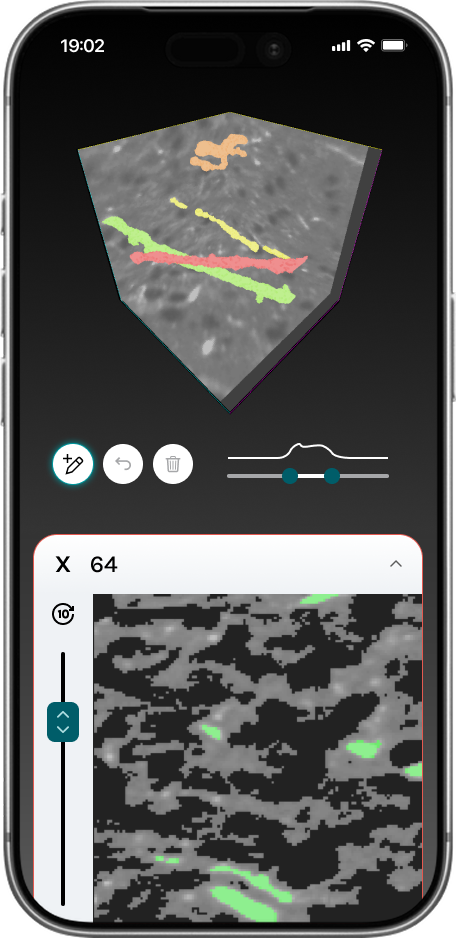
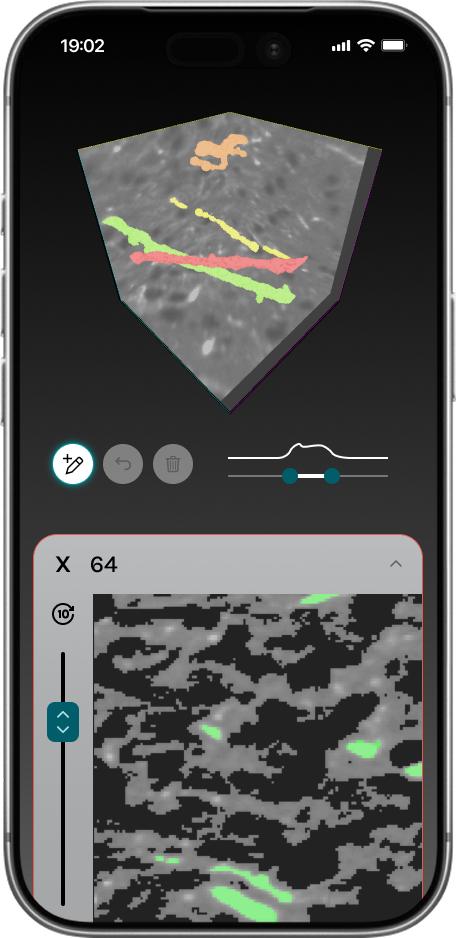
Major fixes, content add

diff --git a/case_study_1.html b/case_study_1.html
@@ -40,7 +40,7 @@
         <section class="case-study-hero">
             <div class="case-study-hero-content">
                 <div class="case-study-hero-image">
-                    <img src="https://github.com/sean-miller26/sean-miller26.github.io/blob/main/Zooniverse%20Homepage%20Mock-up1.jpg?raw=true" alt="Zooniverse Homepage">
+                    <img src="https://github.com/sean-miller26/sean-miller26.github.io/blob/main/Design%20System%20Laptop%20Mock.png?raw=true" alt="Zooniverse Design System">
                 </div>
                 <div class="case-study-hero-text">
                     <div class="card-sponsors">
@@ -81,6 +81,9 @@
             </div>
         </section>
 
+        <div class="featured-image" style="max-width: 1000px; margin: 0 auto;">
+                <img src="https://github.com/sean-miller26/sean-miller26.github.io/blob/main/Design%20System%20Visual%20Break.png?raw=true" class="featured-image">
+
         <!-- The Problem -->
         <section class="section-colored">
             <h2>The Problem: Design Debt and Legacy Architecture</h2>
@@ -93,8 +96,17 @@
                     <li>New features required solving the same design problems again</li>
                 </ul>
                 <p><em>The previous front-end architecture made reuse difficult. Consistency was hard to maintain.</em></p>
-                <div class="featured-image" style="max-width: 1000px; margin: 0 auto;">
-                <img src="https://github.com/sean-miller26/sean-miller26.github.io/blob/main/Old%20Page%20Designs.png?raw=true" alt="Old Page Designs" class="featured-image" style="border-radius: 8px;">
+                <figure style="margin: 0; text-align: center;">
+                    <img src="https://github.com/sean-miller26/sean-miller26.github.io/blob/main/Old%20Page%20Designs.png?raw=true" 
+                    alt="Old Page Designs" 
+                    class="featured-image" 
+                    style="border-radius: 8px;">
+                <figcaption style="margin-top: 0.5rem; color: var(--color-text-light); font-size: 0.9rem;">
+                    Previous implementation
+                    </figcaption>    
+                </figure>
+                    <div class="featured-image" style="max-width: 1000px; margin: 0 auto;">
+                
             </div>
             
         </section>
@@ -116,7 +128,10 @@
         <section class="section-white">
             <h2>Establishing the Foundations</h2>
             <div class="featured-item" style="max-width: 1000px; margin: 0 auto;">
-                <img src="https://github.com/sean-miller26/sean-miller26.github.io/blob/main/Long%20Landing%20Page.png?raw=true" alt="Zooniverse Landing Page" class="featured-image" style="border-radius: 8px;">
+                <img src="https://github.com/sean-miller26/sean-miller26.github.io/blob/main/Long%20Landing%20Page.png?raw=true" 
+                alt="Zooniverse Landing Page" 
+                class="featured-image lightbox-trigger" 
+                style="border-radius: 8px;">
                 <div class="featured-content"> 
                     <p>We started with the public landing page.</p>
                     <p><strong>Visual Language</strong></p>
@@ -133,11 +148,18 @@
             </div>
         </section>
 
+        <img src="https://github.com/sean-miller26/sean-miller26.github.io/blob/main/Design%20System.png?raw=true"
+            class="featured-image lightbox-trigger" 
+                 style="border-radius: 8px; max-width: 800px; width: 100%; margin: 0 auto;">
+
         <!-- Driving Adoption Through the Logged-In Homepage -->
         <section class="section-white">
             <h2>Driving Adoption Through the Logged-In Homepage</h2>
             <div class="featured-item" style="max-width: 1000px; margin: 0 auto;">
-                <img src="https://github.com/sean-miller26/sean-miller26.github.io/blob/main/Long%20Homepage.png?raw=true" alt="Zooniverse Homepage" class="featured-image" style="border-radius: 8px;">
+                <img src="https://github.com/sean-miller26/sean-miller26.github.io/blob/main/Long%20Homepage.png?raw=true" 
+                alt="Zooniverse Homepage" 
+                class="featured-image lightbox-trigger" 
+                style="border-radius: 8px;">
                 <div class="featured-content"> 
                     <p>The logged-in homepage was the first internal surface to adopt the new system.</p>
                     <p>Unlike the marketing page, it needed to support frequent use, personalization, and clear paths to contribution. It used a wide range of shared components and set a new baseline for how the product should look and feel.</p>
@@ -178,18 +200,22 @@
         </div>
 
         <!-- Before and after images -->
-        <div class="stack-mobile" style="display: grid; grid-template-columns: 1fr 1fr; gap: var(--space-md);">
+        <div class="featured-image">
             <figure style="margin: 0; text-align: center;">
                 <img src="https://github.com/sean-miller26/sean-miller26.github.io/blob/main/Project%20Homepage%20Old.png?raw=true" alt="Project Page Before" class="lightbox-trigger" style="width: 100%; height: auto; border-radius: 8px;">
-                <figcaption style="margin-top: 0.5rem; color: var(--color-text-light); font-size: 0.9rem;">Before</figcaption>    
+                <figcaption style="margin-top: 0.25rem; margin-bottom: 1rem; color: var(--color-text-light); font-size: 0.9rem;">Before</figcaption>    
             </figure>
             <figure style="margin: 0; text-align: center;">
                 <img src="https://github.com/sean-miller26/sean-miller26.github.io/blob/main/Project%20Hompage%20New.png?raw=true" alt="Project Page After" class="lightbox-trigger" style="width: 100%; height: auto; border-radius: 8px;">
-                <figcaption style="margin-top: 0.5rem; color: var(--color-text-light); font-size: 0.9rem;">After</figcaption>
+                <figcaption style="margin-top: 0.25rem; margin-bottom: 1rem; color: var(--color-text-light); font-size: 0.9rem;">After</figcaption>
             </figure>
         </div>
     </div>
 </section>
+
+<div class="featured-image" style="max-width: 1000px; margin: 0 auto;">
+                <img src="https://github.com/sean-miller26/sean-miller26.github.io/blob/main/Design%20System%202.png?raw=true" 
+                class="featured-image lightbox-trigger">
 
         <!-- Impact -->
         <section class="section-colored">
@@ -205,7 +231,10 @@
                     <p style="margin-top: 2rem;">These three pages became reference implementations. The public landing page clarified the mission for new visitors. The logged-in homepage improved orientation for returning users. The project page showed the system could scale across diverse scientific content.</p>
                 </div>
                 <div class="featured-image" style="max-width: 1000px; margin: 0 auto;">
-                <img src="https://github.com/sean-miller26/sean-miller26.github.io/blob/main/New%20Page%20Designs.png?raw=true" alt="Old Page Designs" class="featured-image" style="border-radius: 8px;">
+                <img src="https://github.com/sean-miller26/sean-miller26.github.io/blob/main/New%20Page%20Designs.png?raw=true" 
+                alt="New Page Designs" 
+                class="featured-image lightbox-trigger" 
+                style="border-radius: 8px;">
             </div>
         </section>
 

diff --git a/case_study_4.html b/case_study_4.html
@@ -83,40 +83,34 @@
             </div>
         </section>
 
-        <!-- The Tension -->
-        <section class="section-colored">
-            <div style="max-width: 800px; margin: 0 auto;">
-                <h2>The Tension</h2>
-                <p>Volumetric brain data is technical. It requires spatial reasoning, precision, and patience.</p>
-                <p>Zooniverse focuses on access. It invites everyday people into serious science.</p>
-                <p><strong>We could not simplify the task itself. We could only simplify how people learned it.</strong></p>
-            </div>
-        </section>
-
+        <img src="https://github.com/sean-miller26/sean-miller26.github.io/blob/main/Vol%20Viewer%20distilling%20complexity.png?raw=true"
+            class="featured-image" 
+                 style="border-radius: 8px; max-width: 1000px; width: 100%; margin: 0 auto;">
+        
         <!-- The Challenge -->
         <section class="section-white">
             <div style="max-width: 800px; margin: 0 auto;">
                 <h2>The Challenge</h2>
                 <p style="text-align: center; font-size: 1.25rem; font-weight: 500;">How can we make deeply technical 3D data approachable without losing accuracy?</p>
-                <p style="text-align: center; margin-top: 1.5rem;">Volunteers needed to trace individual neuronal pathways carefully. Researchers needed usable data. The interface had to support both.</p>
+                <p style="text-align: center; margin-top: 1.5rem;">Volunteers needed to trace individual neuronal pathways carefully. Researchers needed usable data. The interface had to support both. We could not simplify the task itself. We could only simplify how people learned it.</p>
             </div>
         </section>
 
-        <!-- What Was Broken -->
+        <!-- Hurdles -->
         <section class="section-colored">
             <h2>Expected Hurdles</h2>
             <div class="grid grid-3" style="max-width: 1000px; margin: 0 auto;">
-                <div style="padding: 2rem; background: rgba(255,255,255,0.8); border-radius: 12px; box-shadow: 0 2px 8px rgba(0,0,0,0.08);">
+                <div style="padding: 2rem; background: rgba(255,255,255,0.8); border-radius: 12px; text-align: center; box-shadow: 0 2px 8px rgba(0,0,0,0.08);">
                     <h4 style="color: var(--color-text); font-size: 1.25rem; margin-bottom: 1rem;">Complex Data</h4>
                     <p style="color: var(--color-text-light); margin: 0;">3D scans contain layers of information that overwhelm new users.</p>
                 </div>
-                <div style="padding: 2rem; background: rgba(255,255,255,0.8); border-radius: 12px; box-shadow: 0 2px 8px rgba(0,0,0,0.08);">
+                <div style="padding: 2rem; background: rgba(255,255,255,0.8); border-radius: 12px; text-align: center; box-shadow: 0 2px 8px rgba(0,0,0,0.08);">
                     <h4 style="color: var(--color-text); font-size: 1.25rem; margin-bottom: 1rem;">Steep Learning Curve</h4>
                     <p style="color: var(--color-text-light); margin: 0;">The task is difficult. People need clear ways to undo mistakes.</p>
                 </div>
-                <div style="padding: 2rem; background: rgba(255,255,255,0.8); border-radius: 12px; box-shadow: 0 2px 8px rgba(0,0,0,0.08);">
+                <div style="padding: 2rem; background: rgba(255,255,255,0.8); border-radius: 12px; text-align: center; box-shadow: 0 2px 8px rgba(0,0,0,0.08);">
                     <h4 style="color: var(--color-text); font-size: 1.25rem; margin-bottom: 1rem;">Lack of Context</h4>
-                    <p style="color: var(--color-text-light); margin: 0;">Without orientation cues, users without neuroscience backgrounds struggle to understand what they are seeing or where the data fits.</p>
+                    <p style="color: var(--color-text-light); margin: 0;">Without orientation cues, users without neuroscience backgrounds struggle to understand what they are seeing.</p>
                 </div>
             </div>
         </section>
@@ -135,6 +129,10 @@
                 <p style="text-align: center;"><em>The interface needed to teach through interaction, not long instructions.</em></p>
             </div>
         </section>
+
+           <img src="https://github.com/sean-miller26/sean-miller26.github.io/blob/main/Vol%20Viewer%20Visual%20Break.png?raw=true"
+            class="featured-image" 
+                 style="border-radius: 8px; max-width: 1000px; width: 100%; margin: 0 auto;">
 
         <!-- Guiding Principles -->
         <section class="section-colored">
@@ -165,7 +163,10 @@
         <section class="section-white">
             <h2>Research & Design: Translating 3D Space</h2>
             <div class="featured-item" style="max-width: 1000px; margin: 0 auto;">
-                <img src="https://github.com/sean-miller26/sean-miller26.github.io/blob/main/Vol%20Viewer%20Iterations%20long.png?raw=true" alt="Iterations" class="featured-image">
+                <img src="https://github.com/sean-miller26/sean-miller26.github.io/blob/main/Vol%20Viewer%20Iterations%20long.png?raw=true" 
+                alt="Iterations" 
+                style="border-radius: 8px"
+                class="featured-image lightbox-trigger">
                 <div class="featured-content">
                     <p>Our lead engineer identified open-source components as a starting point. I layered in Zooniverse's design language and interaction patterns.</p>
                     <p>Key decisions included:</p>
@@ -209,7 +210,7 @@
         <div style="flex: 1; display: flex; justify-content: center;">
             <img src="https://github.com/sean-miller26/sean-miller26.github.io/blob/main/Vol%20Viewer%20iPhone%20Mock.png?raw=true" 
                  alt="Mobile Mockup" 
-                 class="featured-image"
+                 class="featured-image lightbox-trigger"
                  style="max-height: 400px; width: auto; display: block;">
         </div>
     </div>
@@ -259,6 +260,14 @@
     <footer>
         <p>&copy; 2025 Sean Miller. All rights reserved.</p>
     </footer>
+
+        <!-- Lightbox Overlay (add once per page) -->
+<div id="lightbox">
+    <img id="lightbox-img" src="" alt="">
+    <button id="lightbox-close">×</button>
+</div>
+
+    <script src="lightbox.js"></script>
 
     <script>
         // Smooth scrolling for nav links

diff --git a/case_study_3.html b/case_study_3.html
@@ -96,6 +96,10 @@
             </div>
         </section>
 
+        <img src="https://github.com/sean-miller26/sean-miller26.github.io/blob/main/Exploration%20Visual%20Break.png?raw=true"
+            class="featured-image" 
+                 style="border-radius: 8px; max-width: 1000px; width: 100%; margin: 0 auto;">
+
         <!-- The Challenge -->
         <section class="section-white">
             <div style="max-width: 800px; margin: 0 auto;">
@@ -109,15 +113,15 @@
         <section class="section-colored">
             <h2>What Was Broken</h2>
             <div class="grid grid-3" style="max-width: 1000px; margin: 0 auto;">
-                <div style="padding: 2rem; background: rgba(255,255,255,0.8); border-radius: 12px; box-shadow: 0 2px 8px rgba(0,0,0,0.08);">
+                <div style="padding: 2rem; background: rgba(255,255,255,0.8); border-radius: 12px; text-align: center; box-shadow: 0 2px 8px rgba(0,0,0,0.08);">
                     <h4 style="color: var(--color-text); font-size: 1.25rem; margin-bottom: 1rem;">Sparse Interface</h4>
                     <p style="color: var(--color-text-light); margin: 0;">The Subject page was minimal, but at the cost of context. It did not surface connections that deserved closer study.</p>
                 </div>
-                <div style="padding: 2rem; background: rgba(255,255,255,0.8); border-radius: 12px; box-shadow: 0 2px 8px rgba(0,0,0,0.08);">
+                <div style="padding: 2rem; background: rgba(255,255,255,0.8); border-radius: 12px; text-align: center; box-shadow: 0 2px 8px rgba(0,0,0,0.08);">
                     <h4 style="color: var(--color-text); font-size: 1.25rem; margin-bottom: 1rem;">Disjointed Conversations</h4>
                     <p style="color: var(--color-text-light); margin: 0;">Comments were hard to follow and poorly ordered. Tagging felt outdated and needed modernization.</p>
                 </div>
-                <div style="padding: 2rem; background: rgba(255,255,255,0.8); border-radius: 12px; box-shadow: 0 2px 8px rgba(0,0,0,0.08);">
+                <div style="padding: 2rem; background: rgba(255,255,255,0.8); border-radius: 12px; text-align: center; box-shadow: 0 2px 8px rgba(0,0,0,0.08);">
                     <h4 style="color: var(--color-text); font-size: 1.25rem; margin-bottom: 1rem;">No Jumping Off Point</h4>
                     <p style="color: var(--color-text-light); margin: 0;">There was no smooth way to move between related subjects. Exploration felt cut off.</p>
                 </div>
@@ -177,7 +181,10 @@
         <section class="section-white">
             <h2>Research: Learning From Power Users</h2>
             <div class="featured-item" style="max-width: 1000px; margin: 0 auto;">
-                <img src="https://github.com/sean-miller26/sean-miller26.github.io/blob/main/User%20flows.png?raw=true" alt="Brainstorming Workshop" style="width: 100%; height: auto; border-radius: 8px;" class="featured-image">
+                <img src="https://github.com/sean-miller26/sean-miller26.github.io/blob/main/User%20flows.png?raw=true" 
+                alt="Brainstorming Workshop" 
+                style="width: 100%; height: auto; border-radius: 8px;" 
+                class="featured-image; lightbox-trigger">
                 <div class="featured-content">
                     <p>I led a cross-project workshop with researchers to map shared needs and identify gaps in the current page.</p>
                     <p>I also interviewed advanced participants who use external tools alongside Zooniverse, including:</p>
@@ -208,6 +215,10 @@
             </div>
         </section>
 
+        <img src="https://github.com/sean-miller26/sean-miller26.github.io/blob/main/Exploration%20Tagging.webp?raw=true"
+            class="featured-image" 
+                 style="border-radius: 8px; max-width: 800px; width: 100%; margin: 0 auto;">
+
         <!-- Testing -->
         <section class="section-white">
             <h2>Testing: Learning Where Expectations Break</h2>
@@ -225,7 +236,10 @@
                     <p>We also found issues with commenting: it was not clearly signposted, and as a modal, it blocked the subject itself.</p>
                     <p><em>These problems came from late leadership decisions that shifted focus toward discussion. Adding comments here also risks duplicating what the dedicated discussion page already does. That tension needs to be revisited.</em></p>
                 </div>
-                <img src="https://github.com/sean-miller26/sean-miller26.github.io/blob/main/Exploration%20Tool%20Very%20Long.png?raw=true" alt="Astronomy Based Subject Page" style="border-radius: 8px" class="featured-image">
+                <img src="https://github.com/sean-miller26/sean-miller26.github.io/blob/main/Exploration%20Tool%20Very%20Long.png?raw=true" 
+                alt="Astronomy Based Subject Page" 
+                style="border-radius: 8px" 
+                class="featured-image lightbox-trigger">
             </div>
         </section>
 
@@ -272,6 +286,14 @@
     <footer>
         <p>&copy; 2025 Sean Miller. All rights reserved.</p>
     </footer>
+
+        <!-- Lightbox Overlay (add once per page) -->
+<div id="lightbox">
+    <img id="lightbox-img" src="" alt="">
+    <button id="lightbox-close">×</button>
+</div>
+
+    <script src="lightbox.js"></script>
 
     <script>
         // Smooth scrolling for nav links

diff --git a/case_study_2.html b/case_study_2.html
@@ -105,15 +105,15 @@
         <section class="section-white">
     <h2>What Was Broken</h2>
     <div class="grid grid-3" style="max-width: 1000px; margin: 0 auto;">
-        <div style="padding: 2rem; background: white; border-radius: 12px; box-shadow: 0 2px 8px rgba(0,0,0,0.08);">
+        <div style="padding: 2rem; background: white; border-radius: 12px; text-align: center; box-shadow: 0 2px 8px rgba(0,0,0,0.08);">
             <h4 style="color: var(--color-text); font-size: 1.25rem; margin-bottom: 1rem;">Stats Were Siloed</h4>
             <p style="color: var(--color-text-light); margin: 0;">Numbers lived in different places and were calculated in different ways. Viewing your stats was clunky. Comparing them was harder.</p>
         </div>
-        <div style="padding: 2rem; background: white; border-radius: 12px; box-shadow: 0 2px 8px rgba(0,0,0,0.08);">
+        <div style="padding: 2rem; background: white; border-radius: 12px; text-align: center; box-shadow: 0 2px 8px rgba(0,0,0,0.08);">
             <h4 style="color: var(--color-text); font-size: 1.25rem; margin-bottom: 1rem;">Motivation Leveled Off</h4>
             <p style="color: var(--color-text-light); margin: 0;">There were no clear markers of progress. For many people, volunteering felt endless and thankless, especially at the beginning.</p>
         </div>
-        <div style="padding: 2rem; background: white; border-radius: 12px; box-shadow: 0 2px 8px rgba(0,0,0,0.08);">
+        <div style="padding: 2rem; background: white; border-radius: 12px; text-align: center; box-shadow: 0 2px 8px rgba(0,0,0,0.08);">
             <h4 style="color: var(--color-text); font-size: 1.25rem; margin-bottom: 1rem;">Autonomy Was Missing</h4>
             <p style="color: var(--color-text-light); margin: 0;">Educators and corporate partners had to request certificates and stats by hand. This slowed them down and created bottlenecks for our team.</p>
         </div>
@@ -123,7 +123,7 @@
             <img src="https://github.com/sean-miller26/sean-miller26.github.io/blob/main/Stats%20Old%20Page%20Designs.png?raw=true" 
                  alt="The old stats system" 
                  class="featured-image" 
-                 style="border-radius: 8px; max-width: 800px; width: 100%; margin: 0 auto;">
+                 style="border-radius: 8px; max-width: 1000px; width: 100%; margin: 0 auto;">
             <figcaption style="margin-top: 0.5rem; color: var(--color-text-light); font-size: 0.9rem;">
                 The Old Stats System
             </figcaption>    
@@ -163,6 +163,9 @@
                 <p><strong>Instead, we focused on visibility. Participants needed to understand the value of their work without turning science into a competition.</strong></p>
             </div>
         </section>
+        <img src="https://github.com/sean-miller26/sean-miller26.github.io/blob/main/Stats%20Visual%20Break.png?raw=true"
+            class="featured-image" 
+            style="border-radius: 8px; max-width: 1000px; width: 100%; margin: 0 auto;">
 
         <!-- Research -->
 <section class="section-white">
@@ -173,7 +176,9 @@
         
         <!-- Grid layout for image and list -->
         <div class="featured-item">
-            <img src="https://github.com/sean-miller26/sean-miller26.github.io/blob/main/Brainstorming.png?raw=true" alt="Brainstorming Session" class="featured-image">
+            <img src="https://github.com/sean-miller26/sean-miller26.github.io/blob/main/Brainstorming.png?raw=true" 
+            alt="Brainstorming Session" 
+            class="featured-image">
             <div class="featured-content">
                 <p>I heard:</p>
                 <ul style="margin-left: 1.5rem; color: var(--color-text-light); font-style: italic;">
@@ -195,6 +200,16 @@
             <p style="margin-top: 1rem;">Stats were not just numbers. They carried emotional weight.</p>
         </div>
     </div>
+
+    <figure style="margin: 0; text-align: center;">
+    <img src="https://github.com/sean-miller26/sean-miller26.github.io/blob/main/Stats%20Certificate.png?raw=true" 
+    alt="Volunteer Certificate"
+    class="featured-image; lightbox-trigger" 
+    style="border-radius: 8px; max-width: 1000px; width: 100%; margin: 0 auto;">
+         <figcaption style="margin-top: 0.5rem; color: var(--color-text-light); font-size: 0.9rem;">
+        A generated volunteer certificate
+        </figcaption>    
+    </figure>
 </section>
 
         <!-- The Solution -->
@@ -261,6 +276,12 @@
                 </div>
             </div>
         </section>
+
+        <img src="https://github.com/sean-miller26/sean-miller26.github.io/blob/main/Stats%20manage%20group.png?raw=true" 
+        alt="Managing a Stats Group"
+        class="featured-image lightbox-trigger" 
+        style="border-radius: 8px; max-width: 800px; width: 100%; margin: 0 auto;">
+
 
         <!-- The Outcome -->
         <section class="section-white">

diff --git a/stylesheet.css b/stylesheet.css
@@ -338,7 +338,7 @@ section:first-of-type {
 /* Grid Layouts */
 .grid {
   display: grid;
-  gap: var(--space-);
+  gap: var(--space-sm);
 }
 
 .grid-2 {
@@ -981,7 +981,7 @@ footer p {
 
 /* Case study hero — image slides from left, text slides from right */
 .case-study-hero-image { animation: slideFromLeft 1s cubic-bezier(0.16, 1, 0.3, 1) both; animation-delay: 0.1s; }
-.case-study-hero-text  { animation: slideFromRight 1s cubic-bezier(0.16, 1, 0.3, 1) both; animation-delay: 0.25s; }
+.case-study-hero-text  { animation: slideFromRight 1s cubic-bezier(0.16, 1, 0.3, 1) both; animation-delay: 0.1s; }
 
 /* Hero content stagger — no HTML changes needed */
 .hero-logo                               { animation: fadeUp 0.6s cubic-bezier(0.16, 1, 0.3, 1) both; animation-delay: 0.2s;  }

diff --git a/index.html b/index.html
@@ -78,7 +78,7 @@
     <h2 id="recent work">Recent Work</h2>
         <div class="card">
             <div class="card-image-wrapper">
-            <img class="card-image" src="https://github.com/sean-miller26/sean-miller26.github.io/blob/main/Zooniverse%20Homepage%20Mock-up1.jpg?raw=true" alt="Zooniverse Design System">
+            <img class="card-image" src="https://github.com/sean-miller26/sean-miller26.github.io/blob/main/Design%20System%20Hero.png?raw=true" alt="Zooniverse Design System">
         </div>
             <div class="card-content">
                 <div class="card-sponsors">
